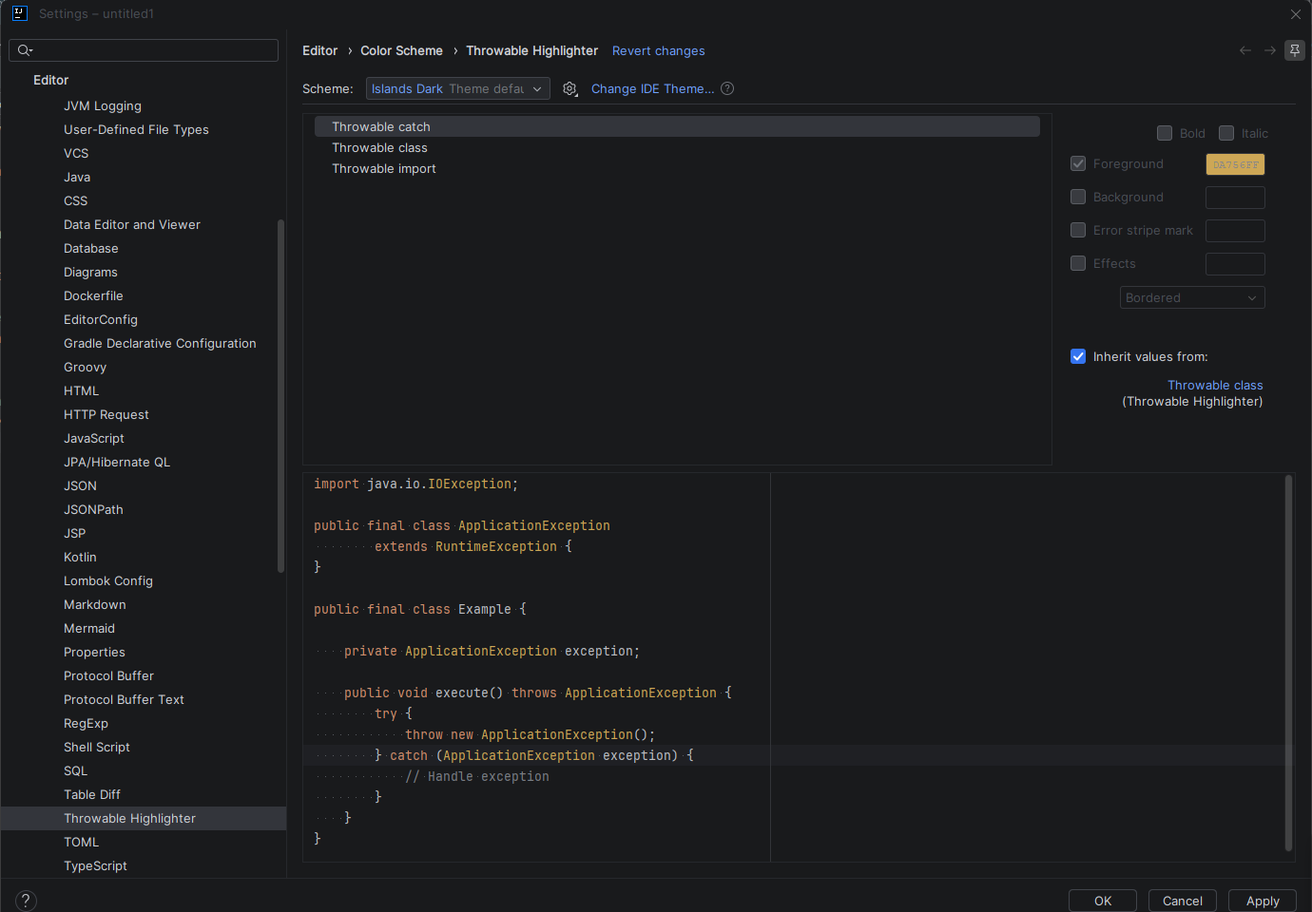
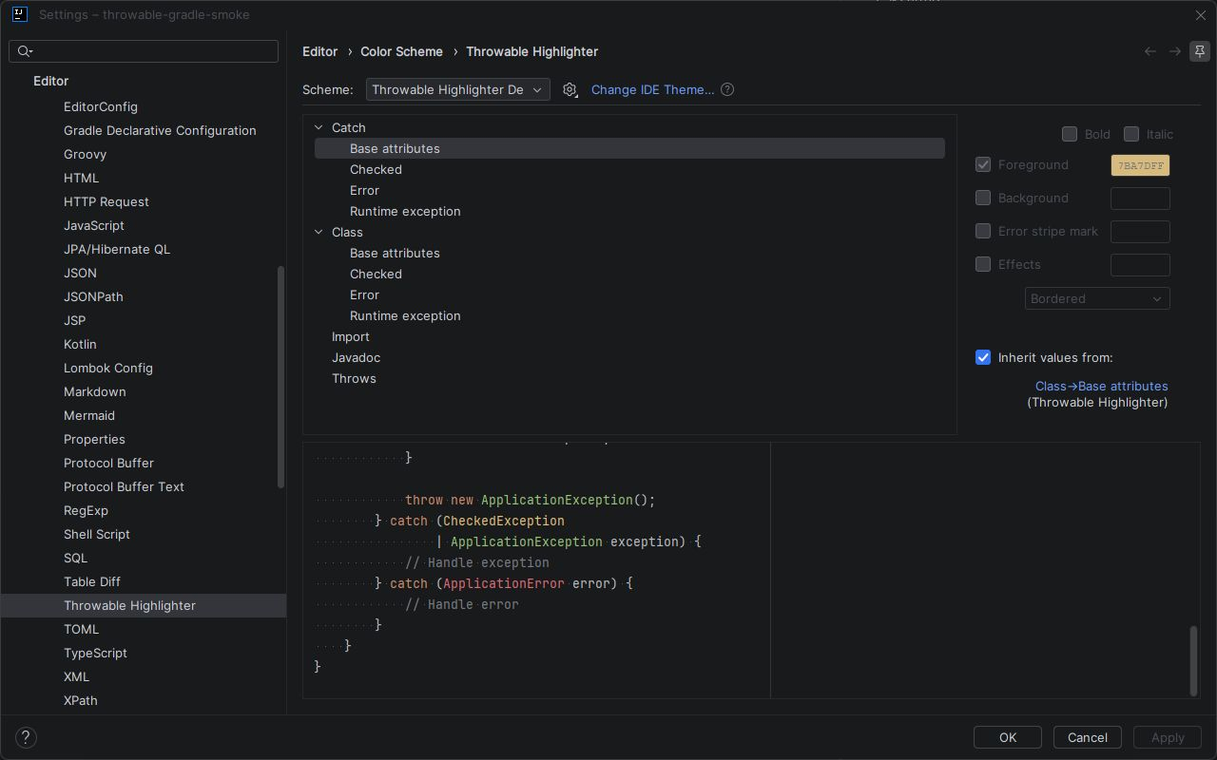
docs(intellij): document grouped highlighting settings

diff --git a/docs/configuration.md b/docs/configuration.md
@@ -8,50 +8,61 @@
 Settings | Editor | Color Scheme | Throwable Highlighter
 ```
 
-Раздел содержит одиннадцать цветовых ключей:
+Раздел содержит одиннадцать настроек. Базовые атрибуты и категории контекстов
+`CLASS` и `CATCH` объединены в группы:
 
-- `Throwable class`;
-- `Throwable checked`;
-- `Throwable runtime exception`;
-- `Throwable error`;
-- `Throwable import`;
-- `Throwable catch`;
-- `Throwable catch checked`;
-- `Throwable catch runtime exception`;
-- `Throwable catch error`;
-- `Throwable throws`;
-- `Throwable Javadoc`.
+```text
+Throwable Highlighter
+├─ Catch
+│  ├─ Base attributes
+│  ├─ Checked
+│  ├─ Error
+│  └─ Runtime exception
+├─ Class
+│  ├─ Base attributes
+│  ├─ Checked
+│  ├─ Error
+│  └─ Runtime exception
+├─ Import
+├─ Javadoc
+└─ Throws
+```
 
-### `Throwable class`
+Группировка определяет расположение настроек. Наследование атрибутов задаётся
+связями цветовых ключей.
 
-Ключ `Throwable class` соответствует `THROWABLE_CLASS`.
+### `Class > Base attributes`
+
+Настройка `Class > Base attributes` соответствует ключу `THROWABLE_CLASS`.
 
 `THROWABLE_CLASS` задаёт родительские атрибуты категорий типов и остальных контекстов подсветки.
 
 По умолчанию ключ наследует стандартный цвет Java-класса из активной цветовой схемы IDE.
 
-![Настройка цвета Throwable class](images/throwable-class-color.png)
+![Базовые атрибуты Class](images/throwable-class-color.png)
 
 ### Категории CLASS
 
 Объявления и ссылки контекста `CLASS` используют цветовой ключ категории разрешённого Java-класса.
 
-| Настройка                     | Цветовой ключ                 | Типы                                                                 |
-|-------------------------------|-------------------------------|----------------------------------------------------------------------|
-| `Throwable checked`           | `THROWABLE_CHECKED`           | `Throwable` и его наследники вне ветвей `RuntimeException` и `Error` |
-| `Throwable runtime exception` | `THROWABLE_RUNTIME_EXCEPTION` | `RuntimeException` и его наследники                                  |
-| `Throwable error`             | `THROWABLE_ERROR`             | `Error` и его наследники                                             |
+| Настройка                   | Цветовой ключ                 | Типы                                                                 |
+| --------------------------- | ----------------------------- | -------------------------------------------------------------------- |
+| `Class > Checked`           | `THROWABLE_CHECKED`           | `Throwable` и его наследники вне ветвей `RuntimeException` и `Error` |
+| `Class > Runtime exception` | `THROWABLE_RUNTIME_EXCEPTION` | `RuntimeException` и его наследники                                  |
+| `Class > Error`             | `THROWABLE_ERROR`             | `Error` и его наследники                                             |
 
 Все три ключа по умолчанию наследуют атрибуты `THROWABLE_CLASS`.
 
 Собственные атрибуты категории применяются к объявлениям и ссылкам контекста `CLASS`.
 При выборе `Java highlighting` для `CLASS` используется стандартное оформление IDE.
 
-### `Throwable import`
+![Настройка категорий Class и Catch](images/throwable-category-colors.png)
 
-Ключ `Throwable import` соответствует `THROWABLE_IMPORT`.
+### `Import`
 
-Он применяется к имени класса в явном импорте.
+Настройка `Import` соответствует ключу `THROWABLE_IMPORT`.
+
+Настройка применяется к имени класса в явном импорте.
 
 ```java
 import java.io.IOException;
@@ -62,24 +73,24 @@ import java.io.IOException;
 
 Импорты с символом `*` не подсвечиваются.
 
-### `Throwable catch`
+### `Catch > Base attributes`
 
-Ключ `Throwable catch` соответствует `THROWABLE_CATCH` и задаёт родительские атрибуты
+Настройка `Catch > Base attributes` соответствует ключу `THROWABLE_CATCH` и задаёт родительские атрибуты
 категорий контекста `CATCH`.
 
 При источнике `Throwable catch` типы в параметрах `catch` используют ключи своих категорий.
 
-| Настройка                           | Цветовой ключ                       |
-|-------------------------------------|-------------------------------------|
-| `Throwable catch checked`           | `THROWABLE_CATCH_CHECKED`           |
-| `Throwable catch runtime exception` | `THROWABLE_CATCH_RUNTIME_EXCEPTION` |
-| `Throwable catch error`             | `THROWABLE_CATCH_ERROR`             |
+| Настройка                   | Цветовой ключ                       |
+| --------------------------- | ----------------------------------- |
+| `Catch > Checked`           | `THROWABLE_CATCH_CHECKED`           |
+| `Catch > Runtime exception` | `THROWABLE_CATCH_RUNTIME_EXCEPTION` |
+| `Catch > Error`             | `THROWABLE_CATCH_ERROR`             |
 
 Категории определяются по тем же правилам, что и для `CLASS`.
 В multi-catch каждый тип классифицируется и подсвечивается отдельно.
 
 Все три ключа по умолчанию наследуют атрибуты `THROWABLE_CATCH`.
-Ранее настроенное оформление `Throwable catch` применяется к категориям,
+Ранее сохранённые атрибуты `THROWABLE_CATCH` применяются к категориям,
 пока для них сохраняется наследование.
 
 При выборе `Java highlighting` для `CATCH` все категории параметров `catch`
@@ -91,13 +102,13 @@ catch (IOException exception) {
 }
 ```
 
-![Наследование цвета Throwable catch](images/throwable-catch-inheritance.png)
+![Наследование базовых атрибутов Catch от Class](images/throwable-catch-inheritance.png)
 
-### `Throwable throws`
+### `Throws`
 
-Ключ `Throwable throws` соответствует `THROWABLE_THROWS`.
+Настройка `Throws` соответствует ключу `THROWABLE_THROWS`.
 
-Он применяется к `Throwable` и его наследникам в списке `throws` метода или конструктора.
+Настройка применяется к `Throwable` и его наследникам в списке `throws` метода или конструктора.
 
 ```java
 import java.io.IOException;
@@ -107,11 +118,11 @@ void execute() throws IOException {
 }
 ```
 
-### `Throwable Javadoc`
+### `Javadoc`
 
-Ключ `Throwable Javadoc` соответствует `THROWABLE_JAVADOC`.
+Настройка `Javadoc` соответствует ключу `THROWABLE_JAVADOC`.
 
-Он применяется к имени класса `Throwable` или его наследника в блочных
+Настройка применяется к имени класса `Throwable` или его наследника в блочных
 Javadoc-тегах `@throws` и `@exception` методов и конструкторов.
 
 ```java
@@ -150,6 +161,14 @@ void execute() throws java.io.IOException {
 Атрибуты хранятся в цветовой схеме отдельно от источников.
 Предпросмотр цветовой схемы показывает атрибуты плагина для всех контекстов.
 
+Подписи источников сохраняются: `Throwable class`, `Throwable import`,
+`Throwable catch`, `Throwable throws` и `Throwable Javadoc`.
+
+В цветовой схеме этим контекстам соответствуют группы `Class` и `Catch`,
+а также настройки `Import`, `Throws` и `Javadoc`.
+
+![Выбор источников подсветки](images/throwable-highlighting-sources.png)
+
 Например, для `Throwable class` можно выбрать `Java highlighting`, а для `Throwable throws`
 оставить источник плагина. Тогда обычные ссылки на классы получают стандартное оформление IDE,
 а типы в `throws` используют атрибуты `THROWABLE_THROWS`. Если для этого ключа включено наследование,
@@ -171,7 +190,7 @@ void execute() throws java.io.IOException {
 Изменение родительских атрибутов применяется к наследующим ключам,
 пока для них сохраняется наследование.
 
-![Наследование цвета Throwable import](images/throwable-import-inheritance.png)
+![Наследование атрибутов Import от Class](images/throwable-import-inheritance.png)
 
 ---
 

diff --git a/docs/architecture.md b/docs/architecture.md
@@ -69,48 +69,55 @@ Java-ссылка извлекается из `PsiDocReferenceHolder` внутр
 
 Перед проверкой наследования аннотатор запрашивает источник определённого контекста.
 
-При источнике `PLUGIN` аннотатор проверяет принадлежность типа к `Throwable`.
-Для CLASS и CATCH выбирается ключ категории, для остальных контекстов — ключ контекста.
+При источнике `PLUGIN` аннотатор получает описание оформления из `ThrowableHighlightingStyles`.
+Для контекстов с категориями используется `ThrowableTypeClassifier`. Для остальных контекстов
+выполняется проверка принадлежности типа к `Throwable`.
+
+При источнике `JAVA` аннотация плагина не создаётся.
 
 ### `ThrowableHighlightingContext`
 
-`ThrowableHighlightingContext` определяет стиль подсветки для внутреннего контекста.
+Перечисление представляет место применения подсветки и хранит severity
+и подпись источника плагина.
 
-Для каждого контекста задаются:
+| Контекст  | Severity          | Подпись источника   |
+| --------- | ----------------- | ------------------ |
+| `CLASS`   | `INFORMATION`     | `Throwable class`  |
+| `IMPORT`  | `TEXT_ATTRIBUTES` | `Throwable import` |
+| `CATCH`   | `INFORMATION`     | `Throwable catch`  |
+| `THROWS`  | `INFORMATION`     | `Throwable throws` |
+| `JAVADOC` | `INFORMATION`     | `Throwable Javadoc` |
 
-- отображаемое имя
-- severity;
-- цветовой ключ.
-
-Текущие контексты:
-
-| Контекст | Severity          | Базовый цветовой ключ    |
-|----------|-------------------|--------------------------|
-| `CLASS`  | `INFORMATION`     | `THROWABLE_CLASS`        |
-| `IMPORT` | `TEXT_ATTRIBUTES` | `THROWABLE_IMPORT`       |
-| `CATCH`  | `INFORMATION`     | `THROWABLE_CATCH`        |
-| `THROWS` | `INFORMATION`     | `THROWABLE_THROWS`       |
-| `JAVADOC` | `INFORMATION` | `THROWABLE_JAVADOC`      |
-
-Для `CLASS` и `CATCH` аннотатор выбирает применяемый ключ через категорию типа.
-Родительские атрибуты категорий задаются ключами `THROWABLE_CLASS` и `THROWABLE_CATCH` соответственно.
-
-Форма выбора источников и страница цветовой схемы используют отображаемые имена из `ThrowableHighlightingContext`.
-
-Определение PSI-сценария и контекста выполняет `ThrowableAnnotator`.
-Для классификации типов в контекстах `CLASS` и `CATCH` использует `ThrowableTypeClassifier`.
+Контекст определяет `ThrowableAnnotator`. Подписи используются формой выбора источников.
 
 ### `ThrowableCategory`
 
-Перечисление содержит категории `CHECKED`, `RUNTIME_EXCEPTION` и `ERROR`.
-Каждая категория хранит отдельные отображаемые имена и цветовые ключи для `CLASS` и `CATCH`.
-Выбор имени и ключа учитывает контекст.
+Перечисление представляет категорию разрешённого Java-типа:
+`CHECKED`, `RUNTIME_EXCEPTION` или `ERROR`.
+
+Категорию определяет `ThrowableTypeClassifier`.
+
+### `ThrowableHighlightingStyles`
+
+Каталог содержит неизменяемые описания оформления поддерживаемых контекстов.
+
+`StyleDefinition` описывает одну настройку цветовой схемы: путь в дереве настроек, цветовой ключ и необязательный тег предпросмотра.
+
+`ContextStyles` объединяет базовое оформление контекста и оформление его категорий. Категории описаны для `CLASS` и `CATCH`.
+Остальные контексты используют базовое оформление.
+
+`forContext()` возвращает описание оформления контекста. `allStyles()` предоставляет общий список настроек для страницы цветовой схемы.
+
+Аннотатор выбирает цветовой ключ через каталог. Страница цветовой схемы получает из тех же описаний дескрипторы настроек
+и соответствия тегов предпросмотра.
+
+Пути вида `Class//Checked` задают группировку штатным механизмом `ColorSettingsPage`. Объявления цветовых ключей и связи
+наследования находятся в `ThrowableHighlighting`.
 
 ### `ThrowableTypeClassifier`
 
-Компонент определяет категорию разрешённого `PsiClass` через `InheritanceUtil.isInheritor`.
-Проверяется принадлежность к `Throwable`, затем к ветвям `RuntimeException` и `Error`.
-Остальные типы иерархии относятся к `CHECKED`.
+Компонент определяет категорию разрешённого `PsiClass` через `InheritanceUtil.isInheritor`. Проверяется принадлежность к
+`Throwable`, затем к ветвям `RuntimeException` и `Error`. Остальные типы иерархии относятся к `CHECKED`.
 
 Для обычного класса возвращается `null`.
 
@@ -139,9 +146,13 @@ Java-ссылка извлекается из `PsiDocReferenceHolder` внутр
 
 `ThrowableColorSettingsPage` добавляет раздел `Throwable Highlighter` в настройки цветовой схемы IDE.
 
-Страница предоставляет настройку одиннадцати цветовых ключей и демонстрационный код, содержащий объявления, ссылки, явный импорт,
-параметр `catch` и `multi-catch`, список `throws` и Javadoc-теги `@throws` и `@exception`.
+Страница формирует одиннадцать дескрипторов настроек и девять соответствий тегов
+предпросмотра из `ThrowableHighlightingStyles`.
 
+Настройки `CLASS` и `CATCH` отображаются группами с базовыми атрибутами и категориями.
+
+Демонстрационный код содержит объявления, ссылки, явный импорт, параметры `catch`
+и multi-catch, список `throws` и Javadoc-теги `@throws` и `@exception`.
 Пример показывает отдельные атрибуты checked-типов, наследников `RuntimeException` и `Error`.
 
 ### `ThrowableHighlightingSource`
@@ -192,8 +203,9 @@ PSI-элемент Java
     → определение поддерживаемого PSI-сценария
     → получение класса, контекста и диапазона
     → проверка необходимости аннотации для выбранного источника
-    → проверка типа Throwable и определение категории для CLASS и CATCH
-    → выбор цветового ключа
+    → получение описания оформления контекста из каталога
+    → классификация типа для контекстов с категориями либо проверка наследования Throwable
+    → выбор цветового ключа из описания оформления
     → аннотация с severity контекста
     → отображение по текущей цветовой схеме
 ```

diff --git a/README.md b/README.md
@@ -12,6 +12,8 @@ Also available for [VS Code on Windows](https://marketplace.visualstudio.com/ite
 
 ![Throwable Highlighter preview](docs/images/throwable-highlighting.png)
 
+The preview uses custom category colors.
+
 ## IntelliJ Platform Features
 
 - Highlights Throwable types in `catch` clauses with a separate configurable color.
@@ -23,9 +25,8 @@ Also available for [VS Code on Windows](https://marketplace.visualstudio.com/ite
 - Highlights the class name in explicit imports of Throwable and its subclasses.
 - Does not highlight package names or wildcard imports.
 - Provides configurable highlighting through the IDE color scheme.
-- Uses the standard Java class color as the default for `Throwable class`.
-- Uses the `Throwable class` color as the default for `Throwable import`, `Throwable catch`, `Throwable throws`
-  and `Throwable Javadoc`.
+- Inherits standard Java class attributes through `Class > Base attributes` by default.
+- Supports inherited or custom attributes for individual categories and contexts.
 - Provides separate attributes for checked types, runtime exceptions, and errors
   in class declarations, references, and `catch` parameters.
 
@@ -35,22 +36,22 @@ Configure highlighting under:
 
 `Settings | Editor | Color Scheme | Throwable Highlighter`
 
-The color scheme provides five base keys:
+`Class` and `Catch` each contain four settings:
 
-- `Throwable class` for the default attributes of class categories and other contexts;
-- `Throwable import` for class names in explicit imports;
-- `Throwable catch` for the default attributes of catch categories;
-- `Throwable throws` for Throwable types in `throws` clauses;
-- `Throwable Javadoc` for class names in Javadoc `@throws` and `@exception` tags on methods and constructors.
+- `Base attributes`;
+- `Checked`;
+- `Runtime exception`;
+- `Error`.
 
-`Throwable import`, `Throwable catch`, `Throwable throws` and `Throwable Javadoc` inherit
-the `Throwable class` color until they receive explicit color settings.
+Class declarations and references use the category settings under `Class`.
+Catch parameters use the category settings under `Catch`. Each type in a multi-catch
+parameter receives its category's attributes.
 
-Class declarations and references use `Throwable checked`, `Throwable runtime exception`, and `Throwable error`.
-These category keys inherit `Throwable class`.
+Category settings inherit `Base attributes` from their group by default.
+`Catch > Base attributes`, `Import`, `Throws`, and `Javadoc` inherit
+`Class > Base attributes`.
 
-Catch parameters use `Throwable catch checked`, `Throwable catch runtime exception`, and `Throwable catch error`.
-These category keys inherit `Throwable catch`. Each type in a multi-catch parameter receives its category's attributes.
+Grouping preserves existing color keys and configured attributes.
 
 Choose a source for each context under `Settings | Tools | Throwable Highlighter`.
 

diff --git a/docs/roadmap.md b/docs/roadmap.md
@@ -146,8 +146,18 @@ Throwable Highlighter поддерживает Java-код и выделяет `
 
 Настройка цветов, наследование атрибутов, предпросмотр и переключение источников проверены вручную в sandbox IntelliJ Platform.
 
-Следующая итерация предусматривает разделение описаний контекстов, категорий и оформления, а также группировку настроек
-цветовой схемы по контекстам. Решение определено [ADR-0039](decisions/0039-intellij-highlighting-style-catalog.md).
+Разделение контекстов, категорий и оформления реализовано согласно
+[ADR-0039](decisions/0039-intellij-highlighting-style-catalog.md).
+
+Аннотатор и страница цветовой схемы используют общий каталог `ThrowableHighlightingStyles`.
+Настройки `CLASS` и `CATCH` сгруппированы по контекстам. Сохранены одиннадцать цветовых
+ключей, их внешние имена, связи наследования и подписи источников.
+
+Автоматические тесты покрывают соответствие контекстов и категорий ключам,
+неизменяемость каталога, полноту дескрипторов и соответствия тегов предпросмотра.
+
+Группировка настроек, выбор атрибутов через предпросмотр и применение цветов
+проверены вручную в sandbox IntelliJ Platform.
 
 ---
 

diff --git a/extensions/intellij/CHANGELOG.md b/extensions/intellij/CHANGELOG.md
@@ -11,11 +11,13 @@ The project follows Semantic Versioning.
 - Separate color scheme attributes for checked types, runtime exceptions, and errors
   in class declarations and references.
 - Separate category attributes for catch parameters, including mixed multi-catch.
-  Existing `Throwable catch` attributes are inherited by default.
+  Existing catch attributes are inherited by default.
 
 ### Changed
 
 - The color scheme preview demonstrates all three categories in class and catch contexts.
+- Color settings are grouped under `Class` and `Catch`, with base and category attributes.
+- Existing color keys and configured attributes are preserved.
 
 ## [1.5.0] - 2026-11-07
 
